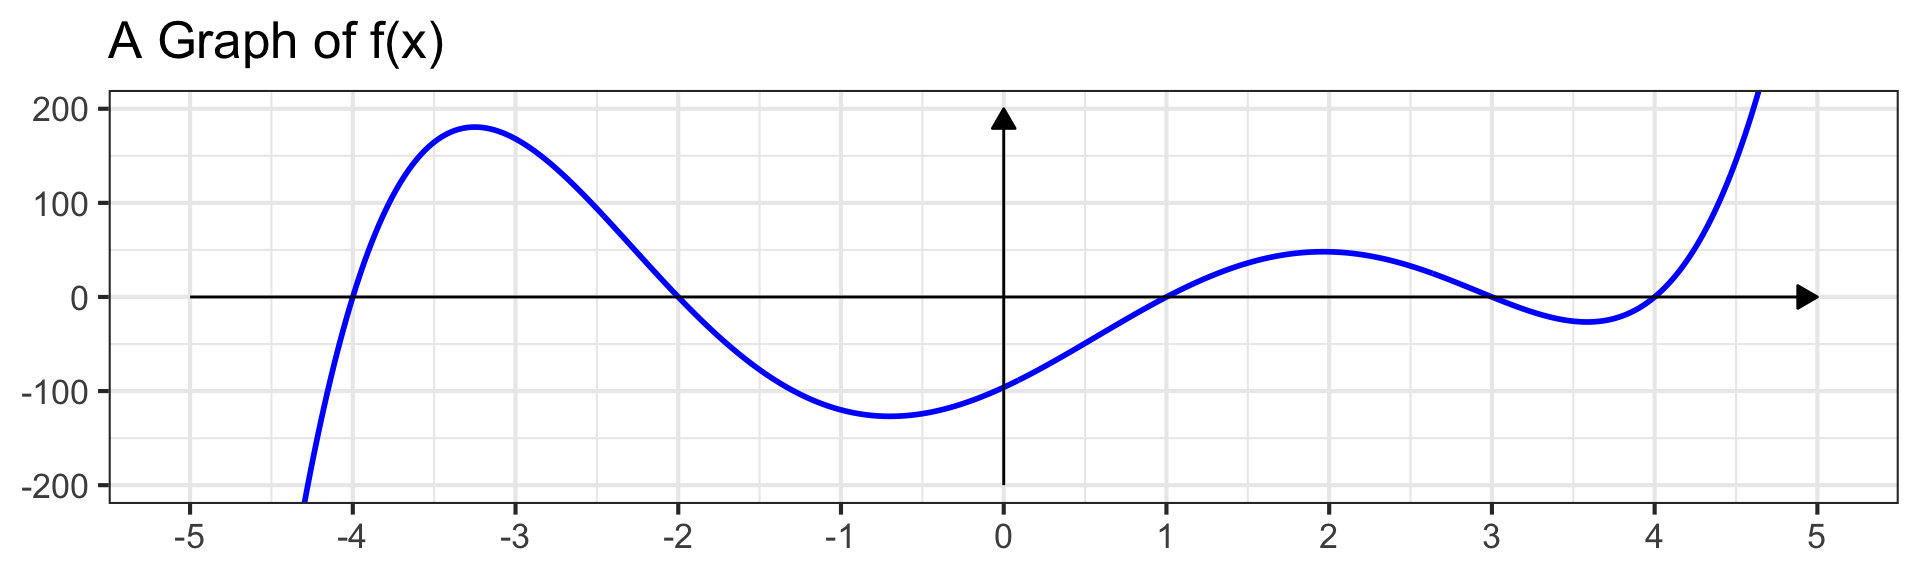
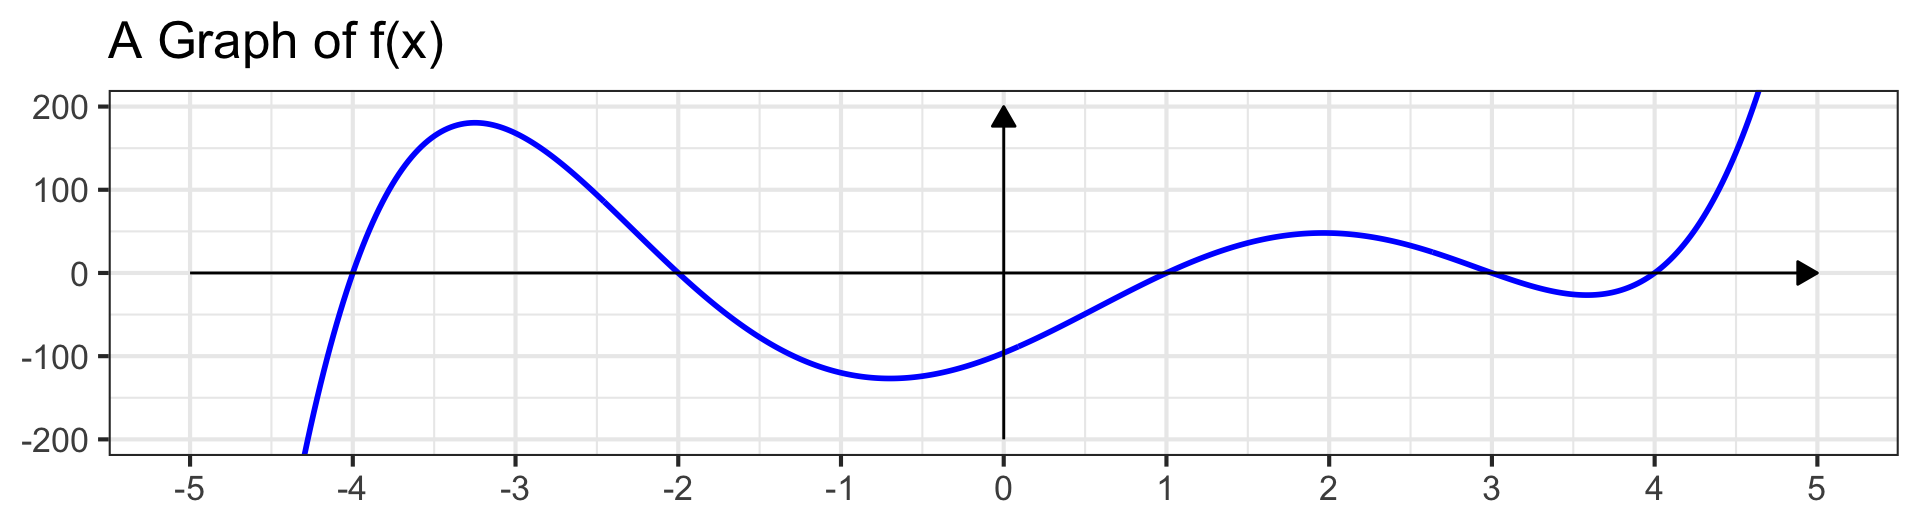
Reduce plot height

diff --git a/Slide_Notes/D8_GraphsAndTransformations.html b/Slide_Notes/D8_GraphsAndTransformations.html
@@ -11,7 +11,7 @@
   <meta name="generator" content="quarto-1.5.43">
 
   <meta name="author" content="Dr.&nbsp;Gilbert">
-  <meta name="dcterms.date" content="2026-06-02">
+  <meta name="dcterms.date" content="2026-07-28">
   <title>MAT 142: Book Functions, Transformations, and Landmarks</title>
   <meta name="apple-mobile-web-app-capable" content="yes">
   <meta name="apple-mobile-web-app-status-bar-style" content="black-translucent">
@@ -337,7 +337,7 @@ Dr.&nbsp;Gilbert
 </div>
 </div>
 
-  <p class="date">June 2, 2026</p>
+  <p class="date">July 28, 2026</p>
 </section>
 <section class="slide level2">
 
